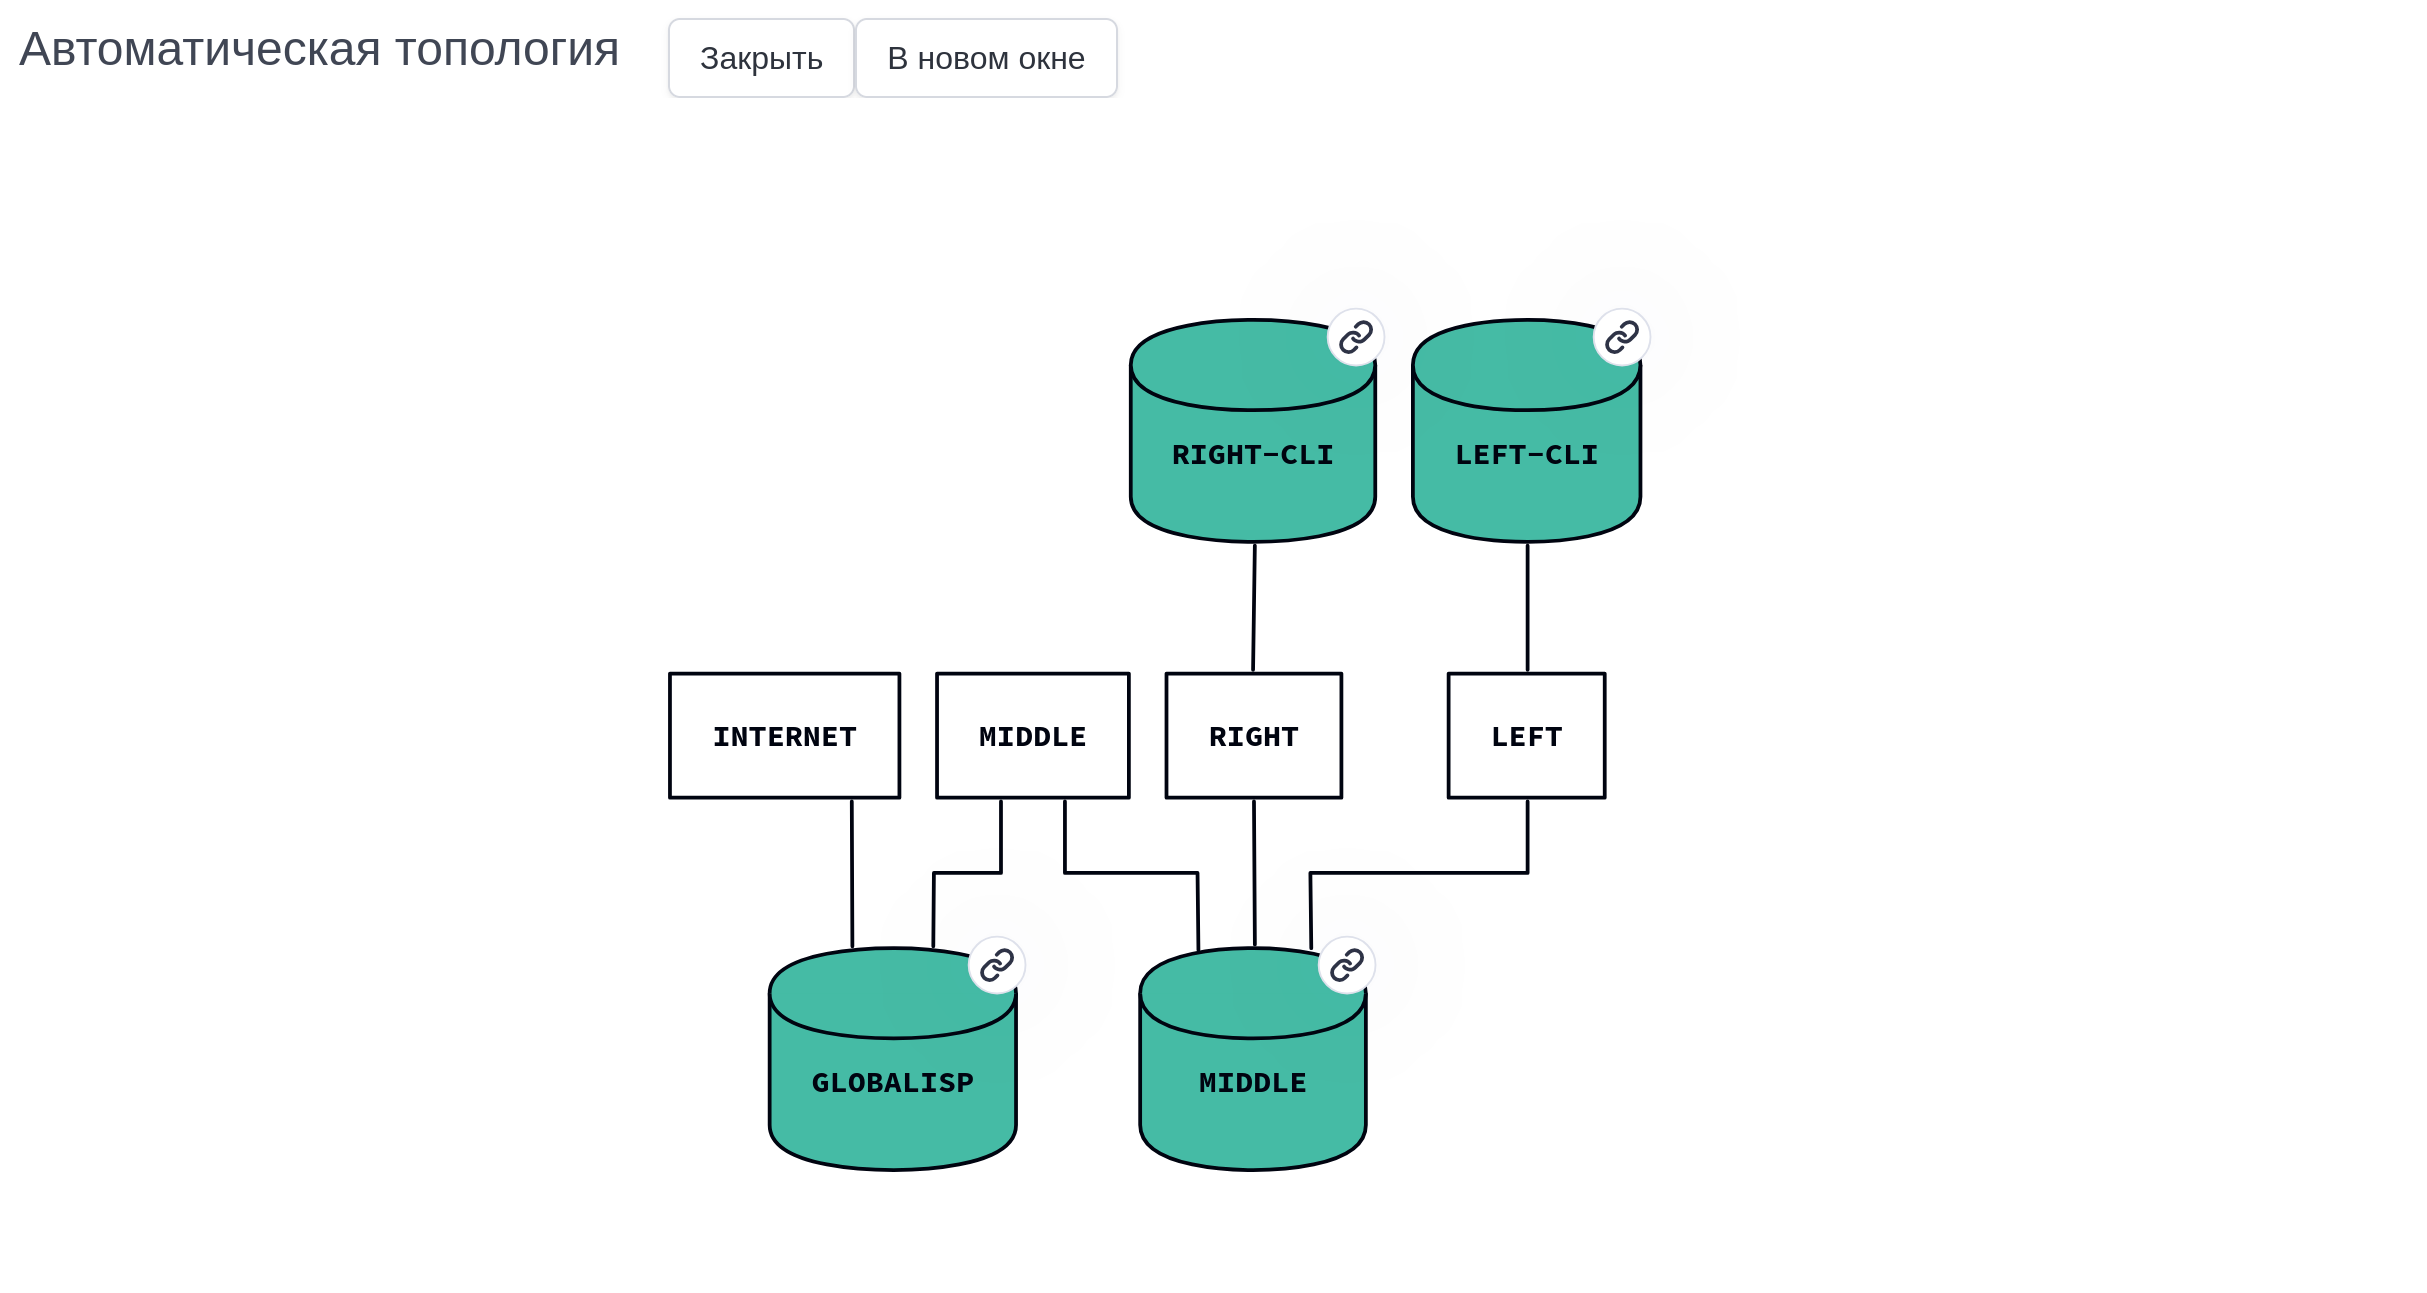
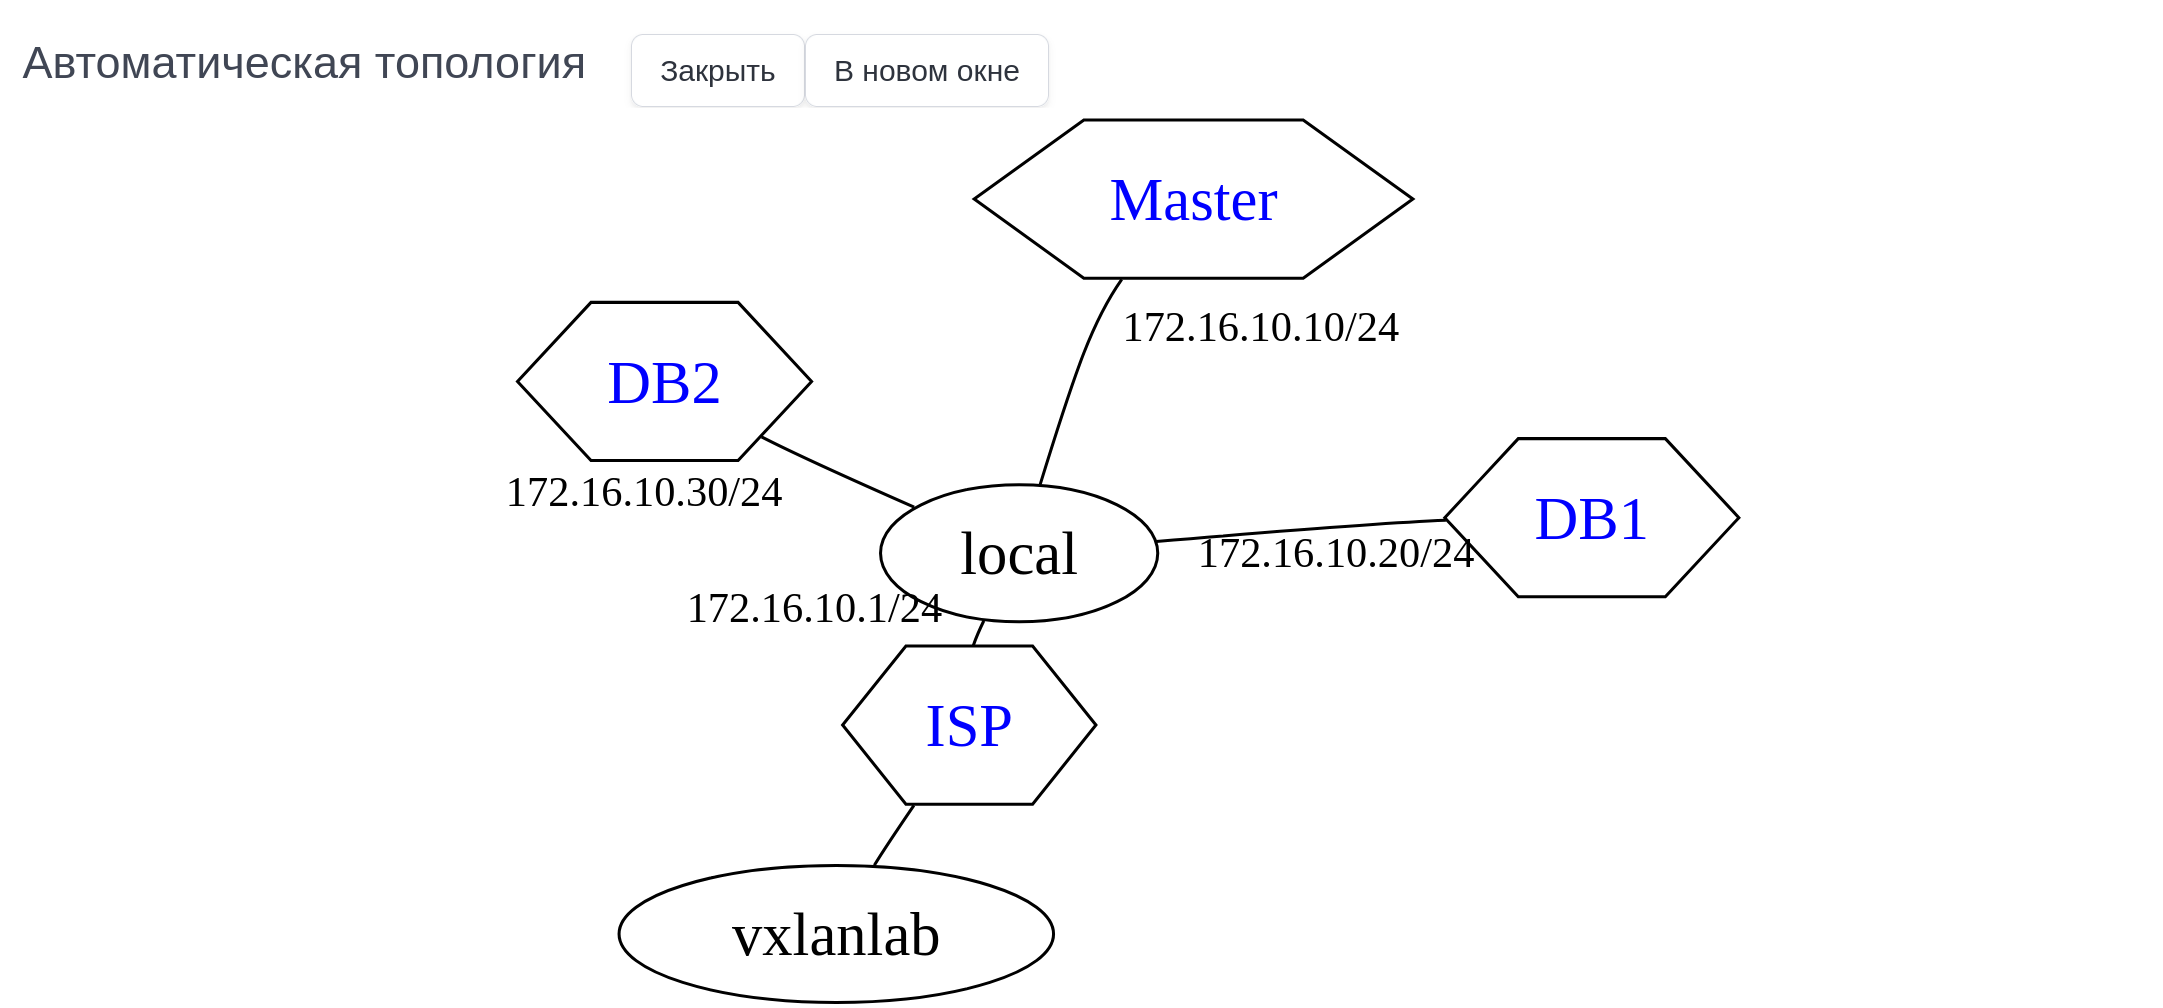
refactor: actualised automatic topology guide

diff --git a/labforge-docs/docs/user-guide/index.md b/labforge-docs/docs/user-guide/index.md
@@ -70,13 +70,10 @@
 
 ![1](image/topology-inlined.png)
 
-**В отдельном окне в увеличенном виде при нажатии на кнопку "В новом окне"**
+В отдельном окне в увеличенном виде при нажатии на кнопку "В новом окне".
 
-![2](image/topology-separate.png)
-
-На топологии изображаются сети (прямоугольные объекты) и виртуальные машины (цилиндрические объекты), а также их подключения друг к другу.
-**Объекты, в правом верхнем углу которых находится иконка ссылки доступны для открытия по нажатию на них**. В случае нажатия на виртуальную машину,
-вы откроете окно подключения к ней.
+На топологии изображаются сети (овальные объекты) и виртуальные машины (шестиугольные объекты), а также их подключения друг к другу.
+В случае нажатия на виртуальную машину, если у нее выделено имя синим цветом, вы откроете окно подключения к ней.
 
 ### Таблица подключений
 
